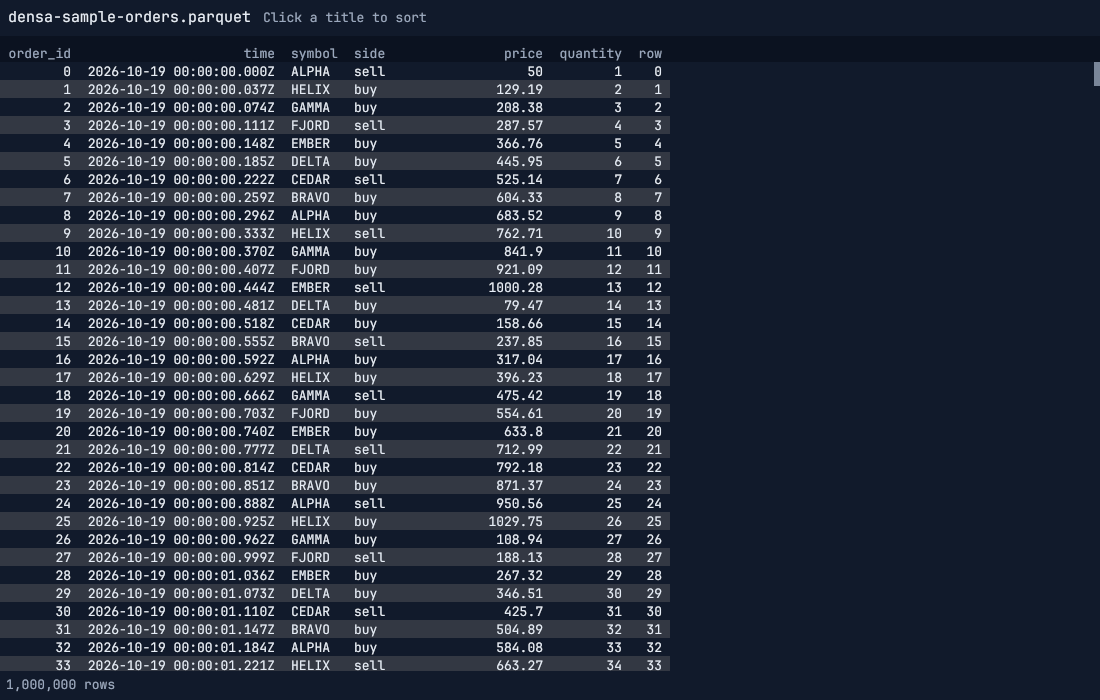
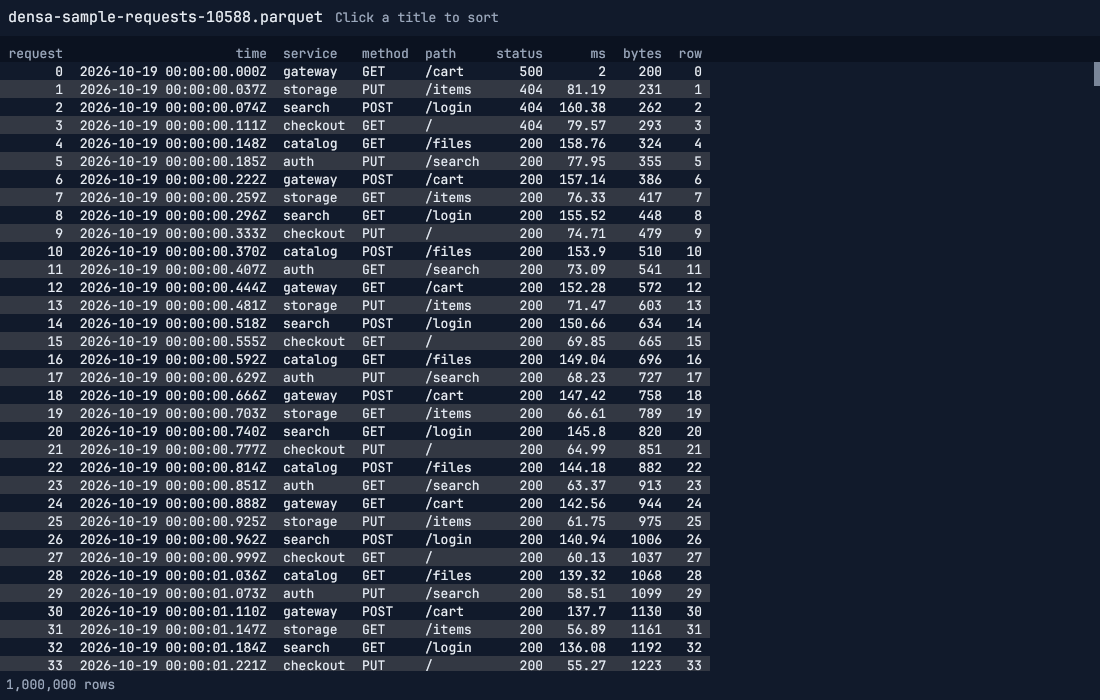
docs: the viewer's sample is a web request log

Changed region(s): [[0.0, 0.06, 0.6491, 0.96], [0.1236, 0.0, 0.4636, 0.03]]

diff --git a/apps/file-viewer/src/main.rs b/apps/file-viewer/src/main.rs
@@ -4,7 +4,7 @@
 //!
 //! `cargo run --release -p file-viewer -- PATH [--key COLUMN]`: rows are keyed by `COLUMN`
 //! (rows with the same key replace each other), or by their row number. `--sample` writes a
-//! million-row Parquet file of orders to the temporary folder and opens it; `--light` for the
+//! million-row Parquet file of web requests to the temporary folder and opens it; `--light` for the
 //! light theme, `--seconds N` to close after N seconds.
 
 use std::error::Error;
@@ -193,23 +193,32 @@ fn grouped(n: u64) -> String {
     text
 }
 
-/// Writes a million orders to a Parquet file in the temporary folder, returning its path.
+/// Writes a million web requests (a service log) to a Parquet file in the temporary folder,
+/// returning its path.
 fn write_sample() -> Result<PathBuf, Box<dyn Error>> {
     const ROWS: i64 = 1_000_000;
     const BATCH: i64 = 65_536;
-    const SYMBOLS: [&str; 8] = [
-        "ALPHA", "BRAVO", "CEDAR", "DELTA", "EMBER", "FJORD", "GAMMA", "HELIX",
+    const SERVICES: [&str; 6] = [
+        "gateway", "auth", "catalog", "checkout", "search", "storage",
     ];
-    let name = format!("densa-sample-orders-{}.parquet", std::process::id());
+    const PATHS: [&str; 6] = ["/", "/login", "/items", "/cart", "/search", "/files"];
+    const METHODS: [&str; 4] = ["GET", "GET", "POST", "PUT"];
+    let name = format!("densa-sample-requests-{}.parquet", std::process::id());
     let path = std::env::temp_dir().join(name);
     let batch = |start: i64| -> Result<RecordBatch, Box<dyn Error>> {
         let ids: Vec<i64> = (start..(start + BATCH).min(ROWS)).collect();
-        // Lossless: small indices and values.
-        let symbol = |i: i64| SYMBOLS[(i * 7 % 8) as usize];
-        let price = |i: i64| 50.0 + ((i * 7_919) % 100_000) as f64 / 100.0;
+        // Lossless: small indices.
+        let pick = |i: i64, n: i64| (i * 7_919 % n) as usize;
+        let status = |i: i64| match i % 97 {
+            0 => 500,
+            1..=3 => 404,
+            _ => 200,
+        };
+        // Whole hundredths, so values print short.
+        let millis = |i: i64| (200 + (i * 7_919) % 16_000) as f64 / 100.0;
         Ok(RecordBatch::try_from_iter([
             (
-                "order_id",
+                "request",
                 Arc::new(Int64Array::from(ids.clone())) as ArrayRef,
             ),
             (
@@ -222,31 +231,37 @@ fn write_sample() -> Result<PathBuf, Box<dyn Error>> {
                 ),
             ),
             (
-                "symbol",
+                "service",
                 Arc::new(StringArray::from_iter_values(
-                    ids.iter().map(|&i| symbol(i)),
+                    ids.iter().map(|&i| SERVICES[pick(i, 6)]),
                 )),
             ),
             (
-                "side",
-                Arc::new(StringArray::from_iter_values(ids.iter().map(|&i| {
-                    if i % 3 == 0 {
-                        "sell"
-                    } else {
-                        "buy"
-                    }
-                }))),
+                "method",
+                Arc::new(StringArray::from_iter_values(
+                    ids.iter().map(|&i| METHODS[pick(i, 4)]),
+                )),
             ),
             (
-                "price",
+                "path",
+                Arc::new(StringArray::from_iter_values(
+                    ids.iter().map(|&i| PATHS[pick(i + 3, 6)]),
+                )),
+            ),
+            (
+                "status",
+                Arc::new(Int64Array::from_iter_values(ids.iter().map(|&i| status(i)))),
+            ),
+            (
+                "ms",
                 Arc::new(Float64Array::from_iter_values(
-                    ids.iter().map(|&i| price(i)),
+                    ids.iter().map(|&i| millis(i)),
                 )),
             ),
             (
-                "quantity",
+                "bytes",
                 Arc::new(Int64Array::from_iter_values(
-                    ids.iter().map(|&i| 1 + i % 500),
+                    ids.iter().map(|&i| 200 + i * 31 % 40_000),
                 )),
             ),
         ])?)

diff --git a/crates/densa-files/src/lib.rs b/crates/densa-files/src/lib.rs
@@ -16,7 +16,7 @@
 //! ```no_run
 //! use densa_files::{Loader, OpenOptions};
 //!
-//! let reader = OpenOptions::new().row_numbers("row").open("orders.parquet")?;
+//! let reader = OpenOptions::new().row_numbers("row").open("requests.parquet")?;
 //! let mut loader = Loader::spawn(reader, || { /* ask the window for a frame */ })?;
 //! // Each frame: take what is ready.
 //! while let Some(batch) = loader.try_next() {

diff --git a/README.md b/README.md
@@ -49,13 +49,13 @@ partway through.
 appear as they are read, and a click on a title sorts them.
 
 ```
-cargo run --release -p file-viewer -- orders.parquet          # keyed by row number
-cargo run --release -p file-viewer -- trades.csv --key id     # keyed by a column
-cargo run --release -p file-viewer -- --sample                # a million sample orders
+cargo run --release -p file-viewer -- requests.parquet        # keyed by row number
+cargo run --release -p file-viewer -- sensors.csv --key id    # keyed by a column
+cargo run --release -p file-viewer -- --sample                # a million sample requests
 ```
 
 <p align="center">
-  <img alt="A Parquet file of a million orders in densa's grid: order id, time, symbol, side, price and quantity columns" src="https://raw.githubusercontent.com/densa-rs/densa-connectors/main/docs/file-viewer.png" width="660">
+  <img alt="A Parquet file of a million web requests in densa's grid: request, time, service, method, path, status, duration and size columns" src="https://raw.githubusercontent.com/densa-rs/densa-connectors/main/docs/file-viewer.png" width="660">
 </p>
 
 ## Next
